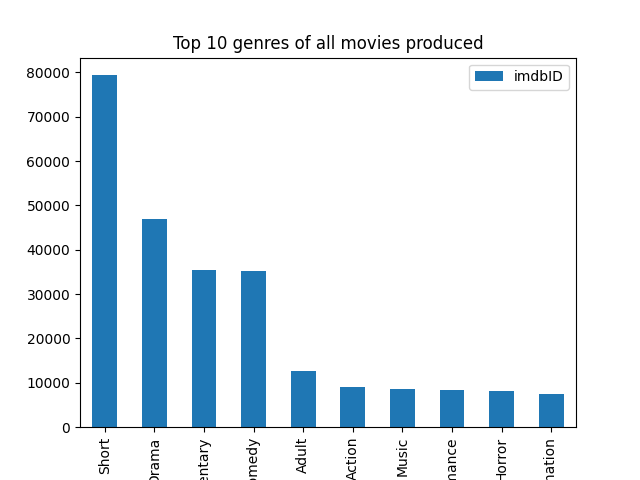
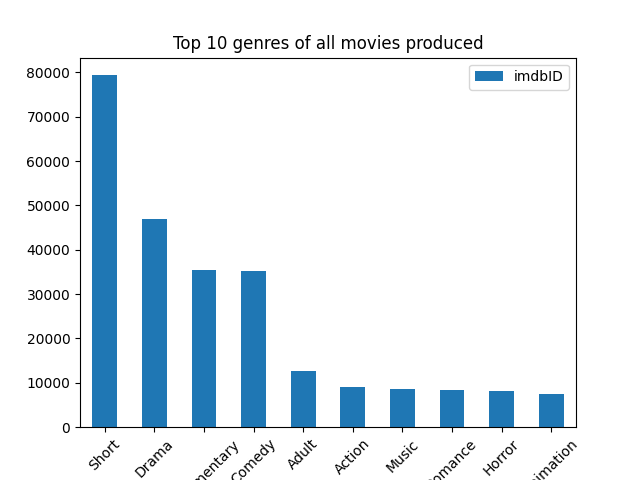
Updated plots

diff --git a/Movie-Genres.py b/Movie-Genres.py
@@ -134,6 +134,7 @@ print(genrestopten_5)
 
 # Generate a bar graph of the top ten genres of rated movies from past 5 years
 genrestopten_5.plot(kind='bar', x='Genre', y='imdbID')
+plt.xticks(rotation=45)
 plt.title('Top 10 genres of movies produced in last 5 years')
 plt.savefig('genrestopten_5.png')
 
@@ -142,6 +143,7 @@ print(genrestopten_rated)
 
 # Generate a bar graph of the top ten genres of all rated movies
 genrestopten_rated.plot(kind='bar', x='Genre', y='imdbID')
+plt.xticks(rotation=45)
 plt.title('Top 10 genres of movies produced with ratings available')
 plt.savefig('genrestopten_rated.png')
 
@@ -150,6 +152,7 @@ print(genrestopten_all_movies)
 
 # Generate a bar graph of the top ten genres of all rated movies
 genrestopten_all_movies.plot(kind='bar', x='Genre', y='imdbID')
+plt.xticks(rotation=45)
 plt.title('Top 10 genres of all movies produced')
 plt.savefig('genrestopten_allmovies.png')
 
@@ -190,7 +193,9 @@ print(movies_genres_by_year)
 # Plot movies_genres_by_year
 fig, ax = plt.subplots()
 fig.set_size_inches (20,10)
-sns.lineplot(data=movies_genres_by_year, x="Year", y='imdbID', hue='Genre')
+sns.set_theme(style="whitegrid")
+sns.lineplot(data=movies_genres_by_year, x="Year", y='imdbID', hue='Genre', palette='tab10')
+plt.title("Number of rated movies by Genre")
 plt.show()
 plt.savefig('Seaborn_plot_genre_by_year.png')
 
@@ -201,8 +206,11 @@ print(movies_genres_rating_by_year)
 # Plot movies_genres_rating_by_year
 fig, ax = plt.subplots()
 fig.set_size_inches (20,10)
-sns.lineplot(data=movies_genres_rating_by_year, x="Year", y='imdbRating', hue='Genre')
+sns.set_theme(style="whitegrid")
+sns.lineplot(data=movies_genres_rating_by_year, x="Year", y='imdbRating', hue='Genre', palette='tab10')
+plt.title("Average ratings by Genre")
 plt.savefig('Seaborn_plot_genre_rating_by_year.png')
 plt.show()
+
 
 
